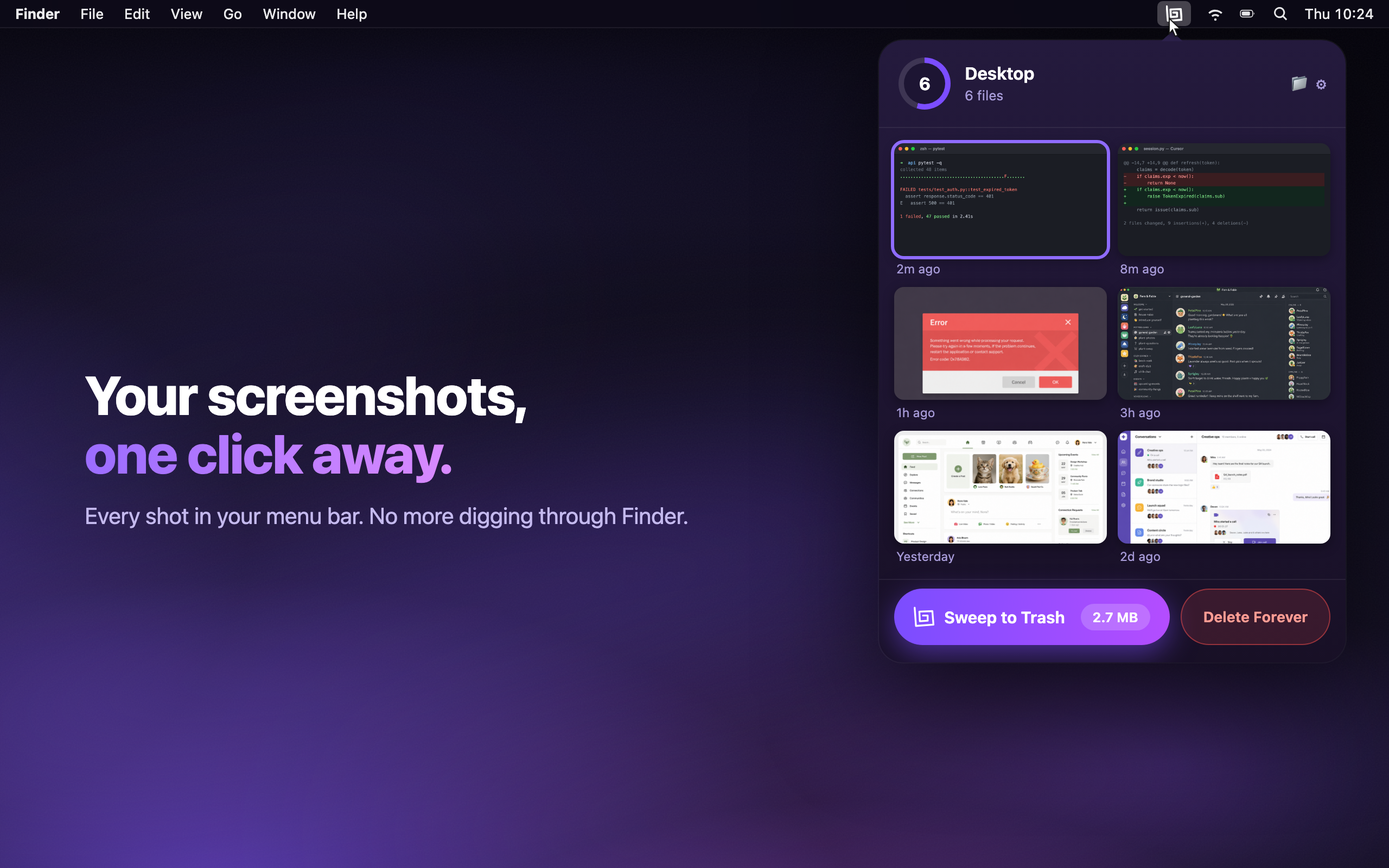
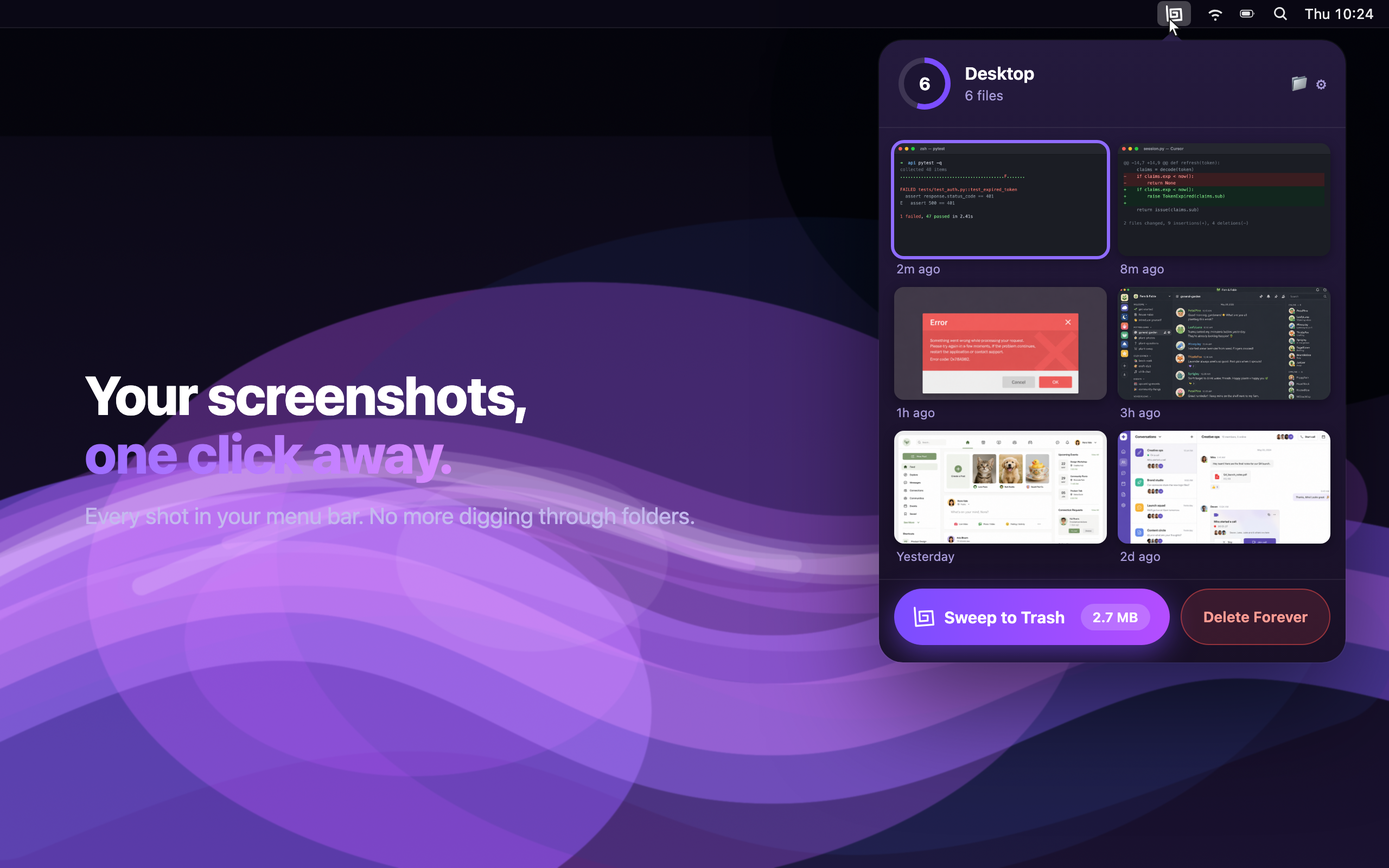
Remove Apple trademarks from the marketing screenshots
Screenshots are metadata, and Apple's 5.2.5 notice asked for images as
well as terms. Three Apple names were rendered into the images:

- 01-hero read "No more digging through Finder" -> "through folders"
- 03-manage read "Press Space to Quick Look" -> "for a full-size preview"
- the simulated menu bar spelled out the file manager's name as the
  frontmost app; its left side is now empty, which is also more honest
  for an LSUIElement app that owns no menus

Regenerated all four at 2560x1600. They now also pick up the newer
desktop wallpaper that was already sitting uncommitted in the tree.

diff --git a/marketing/gen.py b/marketing/gen.py
@@ -110,11 +110,12 @@ BATT = '<svg viewBox="0 0 24 16"><rect x="1" y="3" width="18" height="10" rx="3"
 SEARCH = '<svg viewBox="0 0 16 16"><path d="M7 1.6a5.4 5.4 0 014.3 8.7l3.2 3.2-1.1 1.1-3.2-3.2A5.4 5.4 0 117 1.6zm0 1.6a3.8 3.8 0 100 7.6 3.8 3.8 0 000-7.6z"/></svg>'
 CURSOR = '<svg class="cursor" viewBox="0 0 12 19"><path d="M1 1l10 9.6H6.2l2.5 5.9-2.2.9-2.5-5.9L1 15.1z" fill="#fff" stroke="#1a1a1a" stroke-width="1"/></svg>'
 
-# Screenshot Buddy is LSUIElement — it has no app menus and never owns the menu bar. Whatever
-# the user was actually in stays frontmost, so show Finder rather than claiming menus we
-# don't have.
+# Screenshot Buddy is LSUIElement — it has no app menus and never owns the menu bar, so the
+# left side stays empty rather than claiming menus we don't have. It used to name the file
+# manager here for realism; that word is an Apple trademark and screenshots count as
+# metadata, so it came out after the 5.2.5 rejection on 2026-08-06.
 MENUBAR = f'''<div class="menubar">
-    <span class="app">Finder</span><span>File</span><span>Edit</span><span>View</span><span>Go</span><span>Window</span><span>Help</span>
+    <span class="app">&nbsp;</span>
     <div class="right">
       <span class="mb-app">{mark(width=64)}</span>
       {WIFI}{BATT}{SEARCH}
@@ -140,9 +141,9 @@ def panel(sel=-1, sweep_size="2.7 MB", count=6):
     </div></div>'''
 
 SLIDES = {
-  "01-hero": f'''<div class="head"><h1>Your screenshots,<br><em>one click away.</em></h1><p>Every shot in your menu bar. No more digging through Finder.</p></div>{panel(sel=0)}''',
+  "01-hero": f'''<div class="head"><h1>Your screenshots,<br><em>one click away.</em></h1><p>Every shot in your menu bar. No more digging through folders.</p></div>{panel(sel=0)}''',
   "02-sweep": f'''<div class="head"><h1>Sweep it <em>all away.</em></h1><p>Clear the whole folder in one click, and see the space you got back.</p></div>{panel(sweep_size="48 MB", count=6)}''',
-  "03-manage": f'''<div class="head"><h1>Preview, drag, <em>rename.</em></h1><p>Press Space to Quick Look. Drag straight into any app. Rename in place.</p></div>{panel(sel=2)}''',
+  "03-manage": f'''<div class="head"><h1>Preview, drag, <em>rename.</em></h1><p>Press Space for a full-size preview. Drag straight into any app. Rename in place.</p></div>{panel(sel=2)}''',
   "04-private": f'''<div class="welcome">
       <svg class="mark" viewBox="260 242 528 518"><path fill="none" stroke="url(#g)" stroke-width="46" stroke-linecap="round" stroke-linejoin="round" d="{SPIRAL}"/><defs><linearGradient id="g" x1="0" y1="0" x2="1" y2="1"><stop offset="0" stop-color="#9b6dff"/><stop offset="1" stop-color="#d98aff"/></linearGradient></defs></svg>
       <h2>Private by <em>design.</em></h2>
